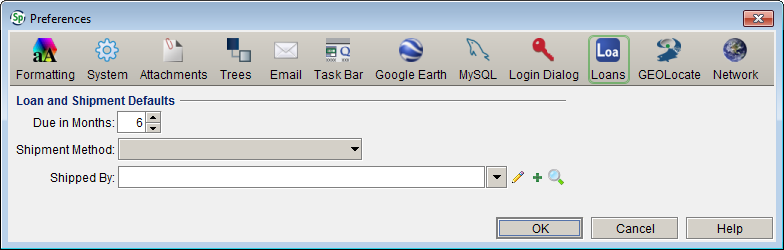
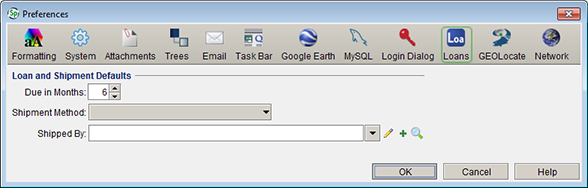
Help Update to fix images and a couple of typos

diff --git a/Specify/help/SpecifyHelp/Cleanup/iso_assign_main.html b/Specify/help/SpecifyHelp/Cleanup/iso_assign_main.html
@@ -14,8 +14,8 @@
   </tr>
 </table>
 <h2>ISO Tools</h2>
-<p>The Institutional Organization for Standardization (ISO) has assigned unique codes for political/geographical boundries. The new Specify Insight iPad application utilizes these codes when summarizing and displaying geographical data, and assigning these codes to your collection is the first necessary step in exporting data for Specify Insight. Without proper ISO Codes the information displayed within Specify Insight will not be complete or possibly correct.</p>
-<p>The ISO tool assigns codes to geograhy trees, which are shared within a Discipline. When the ISO tool is run and ISO codes are assigned, the changes will be reflected in the geography tree for each Collection within the Discipline; therefore, the ISO codes only need to be run once per Discipline.</p>
+<p>The Institutional Organization for Standardization (ISO) has assigned unique codes for political/geographical boundaries. The new Specify Insight iPad application utilizes these codes when summarizing and displaying geographical data, and assigning these codes to your collection is the first necessary step in exporting data for Specify Insight. Without proper ISO Codes the information displayed within Specify Insight will not be complete or possibly correct.</p>
+<p>The ISO tool assigns codes to geography trees, which are shared within a Discipline. When the ISO tool is run and ISO codes are assigned, the changes will be reflected in the geography tree for each Collection within the Discipline; therefore, the ISO codes only need to be run once per Discipline.</p>
 <p>The ISO Assignment tool is opened by clicking: <em>System &gt; ISO Tools</em>.</p>
 <blockquote>
   <p><strong><em>Note:</em></strong> the ISO Assignment tool is only accessible to Admin users. </p>
@@ -47,7 +47,7 @@
     <p><strong><em>Note:</em></strong> the names will only be changed in the geography tree, they will not be merged. </p>
   </blockquote>
   <p><strong><em>Add the ISO Code to the record</em></strong> offers a text box for entering an ISO code and allows the ISO code to be assigned.</p>
-  <p><strong><em><a name="iso_find_code" id="iso_find_code"></a>Look Up ISO Code</em></strong> allows you to step-through standard Contintent, Country and US State names to find correct ISO codes. </p>
+  <p><strong><em><a name="iso_find_code" id="iso_find_code"></a>Look Up ISO Code</em></strong> allows you to step-through standard Continent, Country and US State names to find correct ISO codes. </p>
   <blockquote>
     <p align="center"><img src="../../images/iso_codes.png"  /></p>
     <p align="center"><em>ISO Code Table</em></p>
@@ -65,7 +65,7 @@
 <p align="left">This will clear all ISO codes within the geography tree for all countries or individual countries.</p>
 <blockquote>
   <p align="left">Click <em>Clear ISO Codes</em> from the sidebar menu to open the tool.</p>
-  <p align="center"><img src="../../images/iso_clear.png" width="360" /></p>
+  <p align="center"><img src="../../images/iso_clear.png" /></p>
   <p align="center">Clear ISO Codes</p>
   <p align="left">Check the<em><strong> All Countries</strong></em> box to clear all ISO codes within the geography tree or select a single <em><strong>Country</strong></em> from the drop-down menu to clear only the ISO code for that country. </p>
   <p align="left"><strong><em>Note: </em></strong>Selecting United States from the drop-down will clear all ISO codes for the US states.</p>
@@ -75,7 +75,7 @@
 <p align="left">The ISO Reference displays the standard geographical name and its ISO code referenced within Specify. It is the same ISO reference tool utilized in the ISO Assignment Tool.</p>
 <p align="left">Click <em>ISO Reference</em> from the sidebar menu to open the tool.</p>
 <blockquote>
-  <p align="center"><img src="../../images/iso_codes.png" alt="window" width="360" /></p>
+  <p align="center"><img src="../../images/iso_codes.png" alt="window"  /></p>
   <p align="center"><em>ISO Code Table</em></p>
   <p align="left">Double-Click on a Geography name to select it and open the next level of geography or:</p>
   <ol>

diff --git a/Specify/help/SpecifyHelp/iPadExporter/ipad_exporter.html b/Specify/help/SpecifyHelp/iPadExporter/ipad_exporter.html
@@ -55,10 +55,10 @@
       <p>Choose <em>System &gt; iPad Exporter</em> to open the iPad Export tool.</p>
           <blockquote>
       <p>If your institution does not have a Specify cloud account a warning will display.</p>
-      <p align="center"><img src="../../images/ipad_cloud_warning.png" width="360"  /></p>
+      <p align="center"><img src="../../images/ipad_cloud_warning.png" /></p>
       <p align="center"><em>Specify cloud account warning.</em></p>
       <p align="left">If you see this message click <strong><em>Create Account</em></strong> in the sidebar menu.</p>
-      <p align="center"><img src="../../images/ipad_create_account.png" width="360"  /></p>
+      <p align="center"><img src="../../images/ipad_create_account.png" /></p>
       <p align="center"><em>Create Specify cloud account.</em></p>
       <p align="left">Type in a<em><strong> Username</strong></em><strong></strong>. The username needs to be unique for the entire cloud, therefore we require it to be in the format of an email address: 'name'@'institution'. The email address is not used for any other purpose and is not required to be an actual email account - it is simply a name in the form of an email that you are creating as you type. This username will be used by all collections exporting data to the iPad within your instituion, so we also recommend that the name be meaningful. For instance, <em>ipaduseraccount@ku.edu</em> would be both meaningful and unique for the KU institution. </p>
       <p align="left">Type in a <em><strong>Password</strong></em><strong></strong> and click <em><strong>Create Account</strong></em>.</p>
@@ -68,7 +68,7 @@
 
       <p align="left">Click Configure Collection Export on the sidebar menu if it does not open automatically.</p>
           <blockquote>
-      <p align="center"><img src="../../images/ipad_collection_information_setup.png" width="432"  /></p>
+      <p align="center"><img src="../../images/ipad_collection_information_setup.png" /></p>
       <p align="center"><em>Collection Information for iPad Export</em></p>
       <p align="left">The Collection Information Export tool displays the information required by the Specify Insight iPad application. The fields within this tool are automatically filled-in based on the information in the database, but can be changed. </p>
       <blockquote>
@@ -82,7 +82,7 @@
       <blockquote>
         <p align="left"><strong><em>Note:</em></strong> if you are not storing your attachments on a server via an Attachment Manager or Direct URL they will not be available for display within the Specify Insight iPad application.</p>
       </blockquote>
-      <p>Click the <img src="../../images/Edit-2-16x16.png" width="16"  /> (edit) icon to <em><strong>Choose a Picture</strong></em> to display on the Collection Information screen within the Specify Insight iPad application. </p>
+      <p>Click the <img src="../../images/Edit-2-16x16.png" /> (edit) icon to <em><strong>Choose a Picture</strong></em> to display on the Collection Information screen within the Specify Insight iPad application. </p>
       <p><strong><em>Clear Picture</em></strong> will delete the current picture.</p>
     </blockquote>
   <p>&nbsp;</p>

diff --git a/Specify/help/SpecifyHelp/Prefs/Formatting.html b/Specify/help/SpecifyHelp/Prefs/Formatting.html
@@ -16,7 +16,7 @@
   <li class="MichaelsChanges">For Mac: Choose<em> Specify &gt; Preferences &gt; Formatting. </em> </li>
   <li class="MichaelsChanges">For Windows and Linux: Choose <em>Edit &gt; Preferences &gt; Formatting</em>.</li>
 </ul>
-<p align="center" class="MichaelsChanges"><img src="../../images/pref_formatting.png" alt="formatting" width="433" height="314" /></p>
+<p align="center" class="MichaelsChanges"><img src="../../images/pref_formatting.png" alt="formatting" /></p>
 <p align="center" class="imgcaption">Formatting Preference</p>
 <p class="MichaelsChanges">&nbsp;</p>
 <p class="MichaelsChanges">Formatting allows the customization of display information. Changes made in the Formatting Preferences will display immediately on the side bar and task bar but will not automatically update within the work space. The changes will display in new work space windows.</p>
@@ -30,7 +30,7 @@
   <tr>
     <td align="left" valign="top"><div align="left"><span class="MichaelsChanges"><strong>Screen </strong></span><strong>Date Format</strong></div></td>
     <td align="left" valign="top">This will set the date format for all date fields on all forms.</td>
-    <td align="left" valign="top">Changes to the date format may require that Specify be shutdown and relaunched to appear in the word space.</td>
+    <td align="left" valign="top">Changes to the date format may require that Specify be shutdown and reopened to appear in the word space.</td>
     <td align="left" valign="top" class="MichaelsChanges">Choose a format from the drop down menu.</td>
   </tr>
   <tr>

diff --git a/Specify/help/SpecifyHelp/Prefs/GoogleEarth.html b/Specify/help/SpecifyHelp/Prefs/GoogleEarth.html
@@ -16,7 +16,7 @@
   <li>For Mac: Choose<em> Specify &gt; Preferences &gt; Google Earth. </em> </li>
   <li>For Windows and Linux: Choose <em>Edit &gt; Preferences &gt; Google Earth</em>.</li>
 </ul>
-<p align="center"><img src="../../images/google_pref.png" alt="google" width="433" height="234" /></p>
+<p align="center"><img src="../../images/google_pref.png" width="433" height="194" alt="google" /></p>
 <p align="center" class="imgcaption">Google Preference</p>
 <p>Specify  plots locality records (or associated Collection Objects or Collecting Events) in Google Earth based on latitude and longitude data provided in the locality form. All associated data is stored in a KML file which is launched within Google Earth upon clicking the Google Earth icon on the locality form, or dropping a Record Set on Google Earth in the Plugins side bar. </p>
 <p>Related data within Specify is included in an information balloon. This data varies depending on the type of Record Set that is uploaded to Google Earth. Specify also allows the insertion of two web service links for inserting additional information within the information balloon. </p>

diff --git a/Specify/help/SpecifyHelp/QueryBuilder/third_party.html b/Specify/help/SpecifyHelp/QueryBuilder/third_party.html
@@ -161,7 +161,7 @@
   <blockquote>
   <p><strong>Create New Mapping from a Predefined Schema</strong></p>
     <p>Click <em>Create New Mapping</em> from the side bar, then choose a predefined schema from the list. A mapping editor opens with a list of Specify fields in the top section and a list of data types, referred to as Schema Concepts, in the bottom section. </p>
-    <p><img alt="schema authority" src="../../images/schema_authority_map.png" /></p>
+     <p align="center"><img alt="schema authority" src="../../images/schema_authority_map.png" /></p>
     <p>Specify automatically matches a Schema Concept from the predefined schema to a field in Specify. </p>
     <blockquote>
     <p><strong>Remap</strong> a term by simply clicking the list box (<img src="../../images/up_down_button.png" alt="" />) and selecting a new schema concept from the list. Only unmapped schema concepts are available from the list. </p>

diff --git a/Specify/help/SpecifyHelp/Prefs/Login.html b/Specify/help/SpecifyHelp/Prefs/Login.html
@@ -16,7 +16,7 @@
   <li class="MichaelsChanges">For Mac: Choose<em> Specify &gt; Preferences &gt; Login Dialog. </em> </li>
   <li class="MichaelsChanges">For Windows and Linux: Choose <em>Edit &gt; Preferences &gt; Login Dialog</em>.</li>
 </ul>
-<p align="center"><img src="../../images/pref_login.png" alt="logn" width="433" height="162" /></p>
+<p align="center"><img src="../../images/pref_login.png" alt="logn" /></p>
 <p align="center" class="imgcaption">Login Preference</p>
 <p>Specify automatically creates a pick list of all  usernames and database names that are in use for the login dialog. The following buttons delete the names in these pick lists and they will need to be re-entered to be used again.</p>
 <p>These caches are cleared the moment that the <em>Clear</em> button is clicked. The <em>Cancel</em> button will undo the <em>Clear</em> process and the list will be cleared.</p>

diff --git a/Specify/help/SpecifyHelp/Prefs/MySQL.html b/Specify/help/SpecifyHelp/Prefs/MySQL.html
@@ -16,7 +16,7 @@
   <li>For Mac: Choose<em> Specify &gt; Preferences &gt; MySQL. </em> </li>
   <li>For Windows and Linux: Choose <em>Edit &gt; Preferences &gt; MySQL</em>.</li>
 </ul>
-<p align="center"><img src="../../images/pref_mysql.png" alt="MySQL" width="433" height="170" /></p>
+<p align="center"><img src="../../images/pref_mysql.png" alt="MySQL" /></p>
 <p align="center" class="imgcaption">MySQL Preference</p>
 <p>The MySQL preference sets the pathway for the Specify backup files. The backup function can also be performed in this preference. Restore functions are performed using the BackupAndRestore tool, which is a separate tool located in the specify application directory within the subdirectory labeled <em>bin</em>.</p>
 <p>Users must be part of a manager group or higher to have access to the MySQL preference. </p>

diff --git a/Specify/help/SpecifyHelp/Prefs/Network.html b/Specify/help/SpecifyHelp/Prefs/Network.html
@@ -16,7 +16,7 @@
   <li class="MichaelsChanges">For Mac: Choose<em> Specify &gt; Preferences &gt; Network Dialog. </em> </li>
   <li class="MichaelsChanges">For Windows and Linux: Choose <em>Edit &gt; Preferences &gt; Network Dialog</em>.</li>
 </ul>
-<p align="center"><img src="../../images/pref_network.png" width="433" height="162" /></p>
+<p align="center"><img src="../../images/pref_network.png" /></p>
 <p align="center" class="imgcaption">Network Preference</p>
 <p>If your institution is using a proxy to access the internet webservices, including GEOLocate, may not work correctly. Fill-in the Network information for webservices access the internet through the proxy. Contact your IT administrator for the Network values.</p>
 <p>&nbsp;</p>

diff --git a/Specify/help/SpecifyHelp/Prefs/Geolocate.html b/Specify/help/SpecifyHelp/Prefs/Geolocate.html
@@ -16,7 +16,7 @@
   <li class="MichaelsChanges">For Mac: Choose<em> Specify &gt; Preferences &gt; GEOLocate. </em> </li>
   <li class="MichaelsChanges">For Windows and Linux: Choose <em>Edit &gt; Preferences &gt; GEOLocate</em>.</li>
 </ul>
-<p align="center"><img src="../../images/pref_geolocate.png" alt="geolocate" width="433" height="162" /></p>
+<p align="center"><img src="../../images/pref_geolocate.png" alt="geolocate" /></p>
 <p align="center" class="imgcaption">GEOLocate Preference</p>
 
 <p>The GEOLocate preference allows features in GEOLocate to be turned on or off when using it to georeference data from Specify. </p>

diff --git a/Specify/help/SpecifyHelp/Prefs/Tree.html b/Specify/help/SpecifyHelp/Prefs/Tree.html
@@ -16,7 +16,7 @@
 <ul>
   <li>For Mac: Choose<em> Specify &gt; Preferences &gt; Trees. </em>  </li><li>For Windows and Linux: Choose <em>Edit &gt; Preferences &gt; Trees</em>.</li>
 </ul>
-<p align="center"><img src="../../images/pref_trees.png" alt="trees" width="433" height="345" /></p>
+<p align="center"><img src="../../images/pref_trees.png" alt="trees" /></p>
 <p align="center" class="imgcaption">Trees Preference</p>
 <p><span class="MichaelsChanges">This page is used</span> to customize the appropriate hierarchical Trees, (Storage, Taxon, Geography, Chronostratigraphy and Lithostratigraphy), in Specify 6.</p>
 <ul>

diff --git a/Specify/help/SpecifyHelp/Prefs/symbiota_pref.html b/Specify/help/SpecifyHelp/Prefs/symbiota_pref.html
@@ -23,7 +23,7 @@
   <li class="michaelschanges"> For Mac: Choose <em>Specify &gt; Preferences &gt;Symbiota.</em></li>
   <li class="michaelschanges"> For Windows and Linux: Choose <em>Edit &gt; Preferences &gt;Symbiota</em>. </li>
   </ul>
-<p align="center"><img src="../../images/pref_symbiota.png" width="630" height="203" alt="symbiota pref" /></p>
+<p align="center"><img src="../../images/pref_symbiota.png" alt="symbiota pref" /></p>
 <p>Type or Copy/Paste the base URL for your Symbiota project (this must be provided by Symbiota) into the <em>Base URL</em> text box. </p>
 <p>&nbsp;</p>
   
